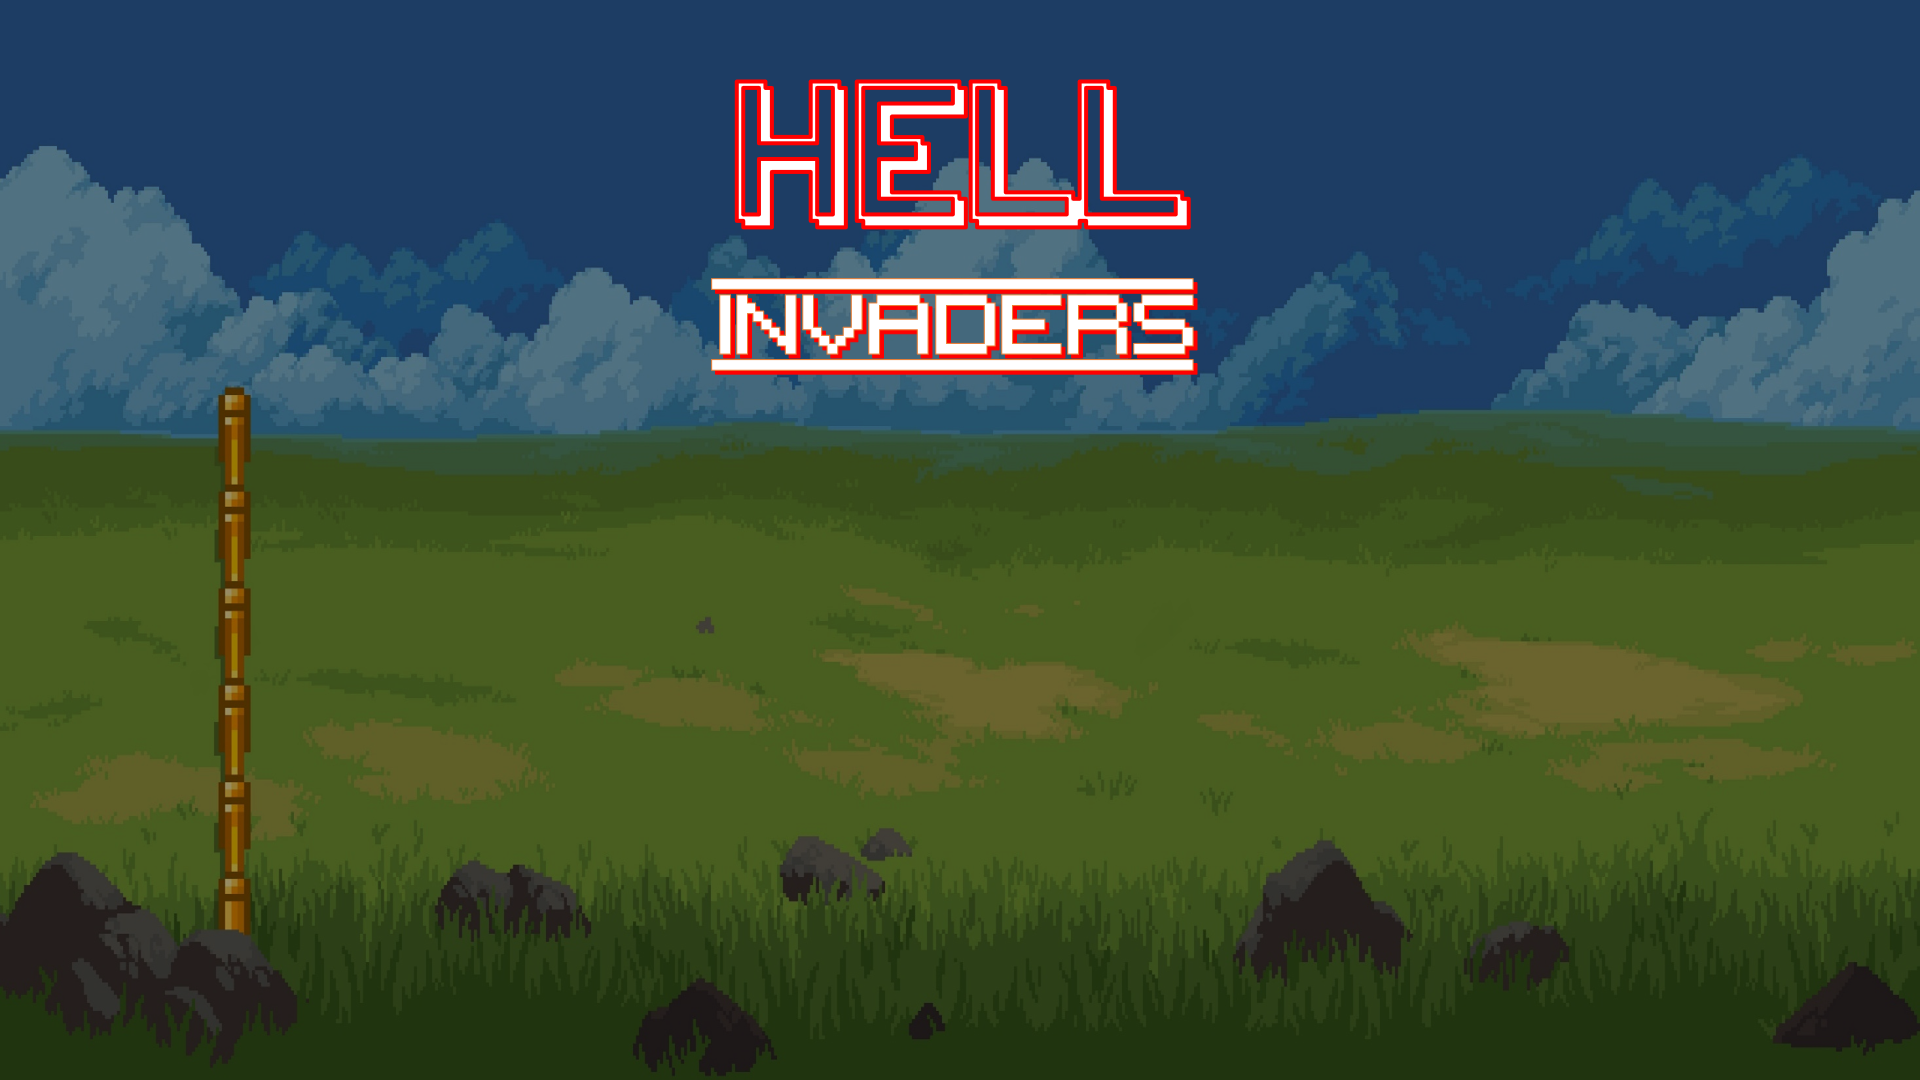
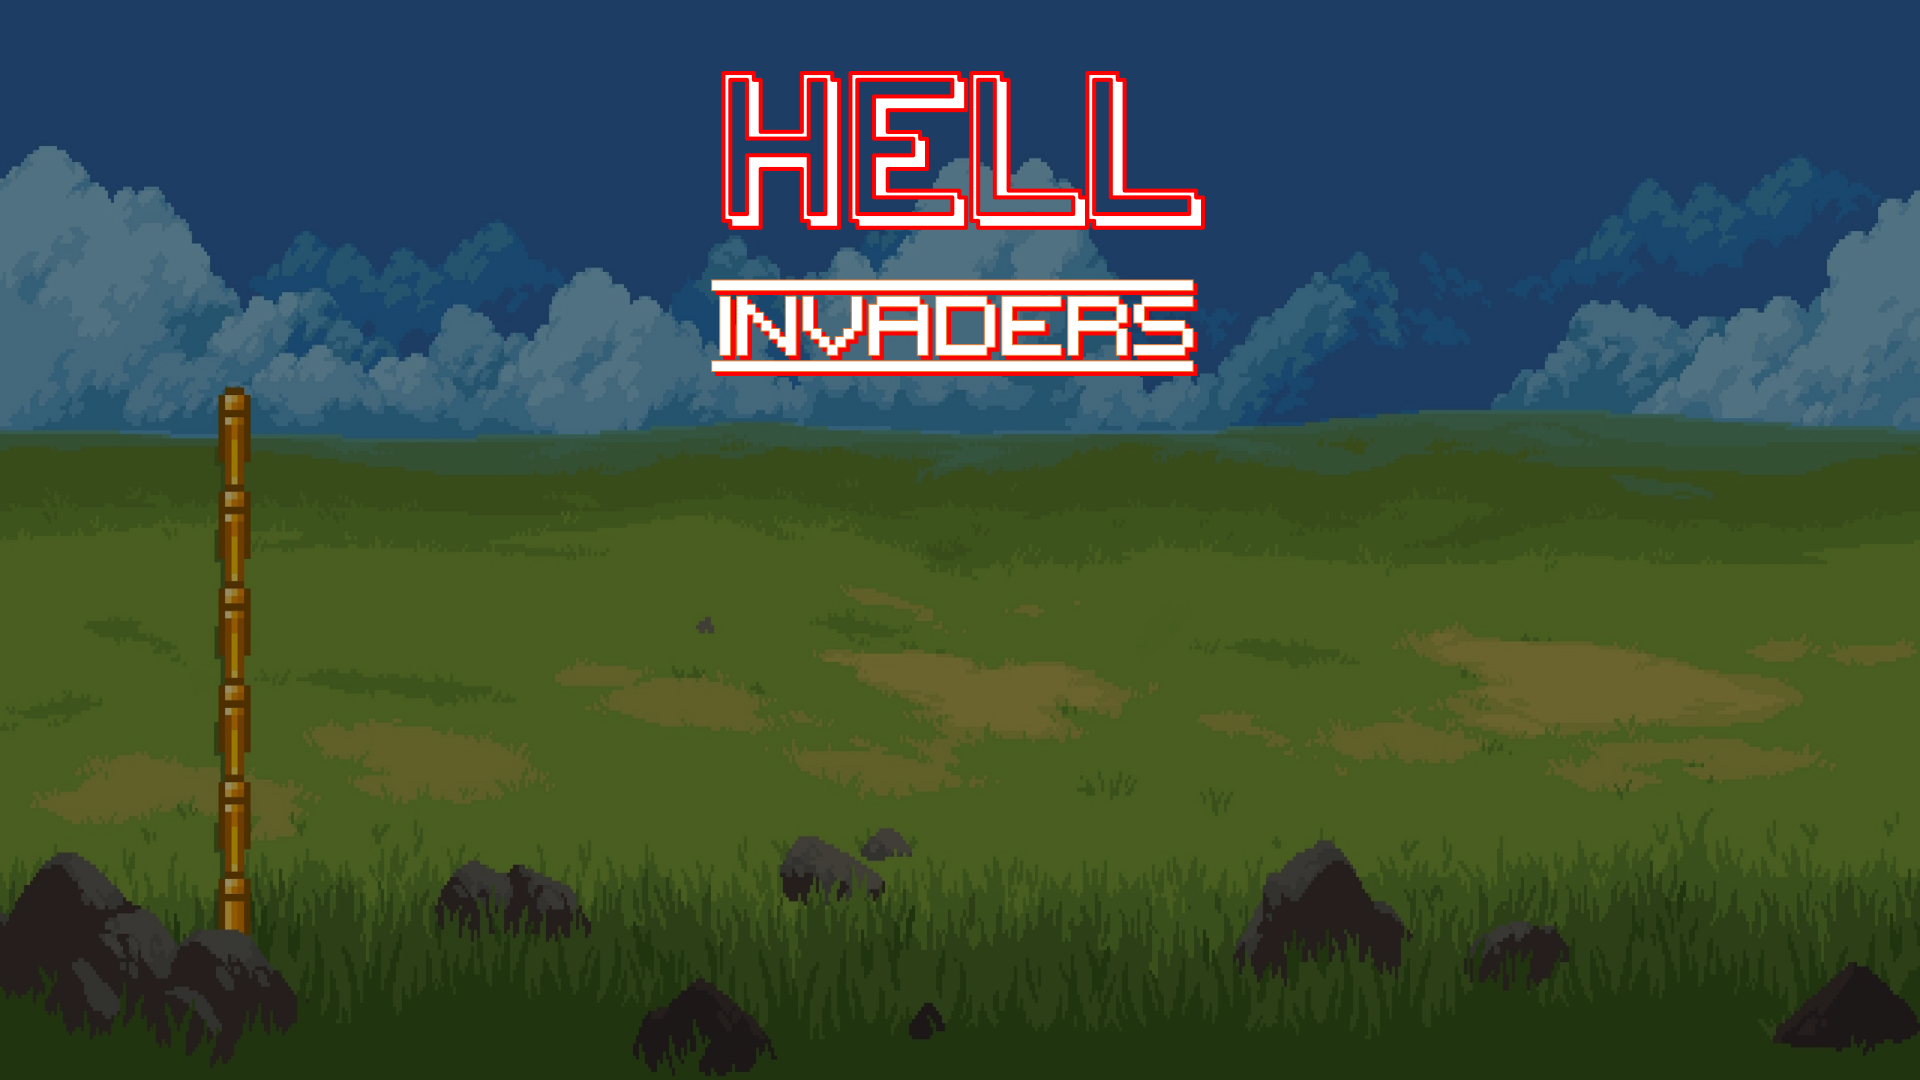
Changed menu background and button sizes.

Changed region(s): [[0.375, 0.0611, 0.625, 0.2139], [0.375, 0.2444, 0.625, 0.3667]]

diff --git a/out/production/Hell Invaders/res/src/States/UpgradeState.java b/out/production/Hell Invaders/res/src/States/UpgradeState.java
@@ -11,13 +11,15 @@ import java.awt.*;
 import java.awt.event.KeyEvent;
 import java.awt.image.BufferStrategy;
 
-public class UpgradeState extends ReversableState {
+public class UpgradeState extends ReversibleState {
+    private final int playW=400;
+    private  final int playH=110;
+    private final int playX = Toolkit.getDefaultToolkit().getScreenSize().width / 2 - playW/2;
 
     public UpgradeState() {
-        int playX = Toolkit.getDefaultToolkit().getScreenSize().width / 2 - buttonW;
         allButtons.get(0).AddActionListener(actionEvent -> StateManager.GetInstance().SetCurrentState(StateManager.StateIndex.MENU_STATE));
         allButtons.get(0).AddActionListener(actionEvent -> AudioManager.GetInstance().Stop(BackgroundMusic.upgradeMusic));
-        allButtons.add(new GUIButton(GUIAssets.play_button, GUIAssets.play_button_hovered, playX, 735, buttonW * 2, buttonH * 2));
+        allButtons.add(new GUIButton(GUIAssets.play_button, GUIAssets.play_button_hovered, playX, 725, playW, playH ));
         allButtons.get(1).AddActionListener(actionEvent -> StateManager.GetInstance().SetCurrentState(StateManager.StateIndex.GAME_STATE));
         allButtons.get(1).AddActionListener(actionEvent -> AudioManager.GetInstance().Stop(BackgroundMusic.upgradeMusic));
     }

diff --git a/src/States/UpgradeState.java b/src/States/UpgradeState.java
@@ -11,13 +11,15 @@ import java.awt.*;
 import java.awt.event.KeyEvent;
 import java.awt.image.BufferStrategy;
 
-public class UpgradeState extends ReversableState {
+public class UpgradeState extends ReversibleState {
+    private final int playW=400;
+    private  final int playH=110;
+    private final int playX = Toolkit.getDefaultToolkit().getScreenSize().width / 2 - playW/2;
 
     public UpgradeState() {
-        int playX = Toolkit.getDefaultToolkit().getScreenSize().width / 2 - buttonW;
         allButtons.get(0).AddActionListener(actionEvent -> StateManager.GetInstance().SetCurrentState(StateManager.StateIndex.MENU_STATE));
         allButtons.get(0).AddActionListener(actionEvent -> AudioManager.GetInstance().Stop(BackgroundMusic.upgradeMusic));
-        allButtons.add(new GUIButton(GUIAssets.play_button, GUIAssets.play_button_hovered, playX, 735, buttonW * 2, buttonH * 2));
+        allButtons.add(new GUIButton(GUIAssets.play_button, GUIAssets.play_button_hovered, playX, 725, playW, playH ));
         allButtons.get(1).AddActionListener(actionEvent -> StateManager.GetInstance().SetCurrentState(StateManager.StateIndex.GAME_STATE));
         allButtons.get(1).AddActionListener(actionEvent -> AudioManager.GetInstance().Stop(BackgroundMusic.upgradeMusic));
     }

diff --git a/out/production/Hell Invaders/res/src/States/MenuState.java b/out/production/Hell Invaders/res/src/States/MenuState.java
@@ -17,9 +17,9 @@ public class MenuState extends State {
     private GUIText bottomText;
 
     public MenuState() {
-        final int menuY = Toolkit.getDefaultToolkit().getScreenSize().height / 2;
+        final int menuY = Toolkit.getDefaultToolkit().getScreenSize().height / 2-20;
         final int menuX = (Toolkit.getDefaultToolkit().getScreenSize().width - buttonW) / 2;
-        final int buttonSpacing = 65;
+        final int buttonSpacing = 75;
 
         allButtons = new ArrayList<>(5);
         allButtons.add(new GUIButton(GUIAssets.new_game_button, GUIAssets.new_game_button_hovered, menuX, menuY, buttonW, buttonH));

diff --git a/src/States/MenuState.java b/src/States/MenuState.java
@@ -17,9 +17,9 @@ public class MenuState extends State {
     private GUIText bottomText;
 
     public MenuState() {
-        final int menuY = Toolkit.getDefaultToolkit().getScreenSize().height / 2;
+        final int menuY = Toolkit.getDefaultToolkit().getScreenSize().height / 2-20;
         final int menuX = (Toolkit.getDefaultToolkit().getScreenSize().width - buttonW) / 2;
-        final int buttonSpacing = 65;
+        final int buttonSpacing = 75;
 
         allButtons = new ArrayList<>(5);
         allButtons.add(new GUIButton(GUIAssets.new_game_button, GUIAssets.new_game_button_hovered, menuX, menuY, buttonW, buttonH));

diff --git a/out/production/Hell Invaders/res/src/States/OptionsState.java b/out/production/Hell Invaders/res/src/States/OptionsState.java
@@ -1,8 +1,5 @@
 package States;
 
-import Assets.GUIAssets;
-import Audio.AudioManager;
-import Audio.BackgroundMusic;
 import GUI.GUIButton;
 import Game.GameWindow;
 import Assets.BackgroundAssets;
@@ -10,7 +7,7 @@ import Assets.BackgroundAssets;
 import java.awt.*;
 import java.awt.image.BufferStrategy;
 
-public class OptionsState extends ReversableState {
+public class OptionsState extends ReversibleState {
 
     public OptionsState(){
         allButtons.get(0).AddActionListener(actionEvent -> StateManager.GetInstance().SetCurrentState(StateManager.StateIndex.MENU_STATE));

diff --git a/src/States/OptionsState.java b/src/States/OptionsState.java
@@ -1,8 +1,5 @@
 package States;
 
-import Assets.GUIAssets;
-import Audio.AudioManager;
-import Audio.BackgroundMusic;
 import GUI.GUIButton;
 import Game.GameWindow;
 import Assets.BackgroundAssets;
@@ -10,7 +7,7 @@ import Assets.BackgroundAssets;
 import java.awt.*;
 import java.awt.image.BufferStrategy;
 
-public class OptionsState extends ReversableState {
+public class OptionsState extends ReversibleState {
 
     public OptionsState(){
         allButtons.get(0).AddActionListener(actionEvent -> StateManager.GetInstance().SetCurrentState(StateManager.StateIndex.MENU_STATE));

diff --git a/out/production/Hell Invaders/res/src/States/StatsState.java b/out/production/Hell Invaders/res/src/States/StatsState.java
@@ -1,8 +1,5 @@
 package States;
 
-import Assets.GUIAssets;
-import Audio.AudioManager;
-import Audio.BackgroundMusic;
 import GUI.GUIButton;
 import Game.GameWindow;
 import Assets.BackgroundAssets;
@@ -11,7 +8,7 @@ import java.awt.*;
 import java.awt.event.KeyEvent;
 import java.awt.image.BufferStrategy;
 
-public class StatsState extends ReversableState {
+public class StatsState extends ReversibleState {
     public StatsState(){
         allButtons.get(0).AddActionListener(actionEvent -> StateManager.GetInstance().SetCurrentState(StateManager.StateIndex.MENU_STATE));
     }

diff --git a/src/States/StatsState.java b/src/States/StatsState.java
@@ -1,8 +1,5 @@
 package States;
 
-import Assets.GUIAssets;
-import Audio.AudioManager;
-import Audio.BackgroundMusic;
 import GUI.GUIButton;
 import Game.GameWindow;
 import Assets.BackgroundAssets;
@@ -11,7 +8,7 @@ import java.awt.*;
 import java.awt.event.KeyEvent;
 import java.awt.image.BufferStrategy;
 
-public class StatsState extends ReversableState {
+public class StatsState extends ReversibleState {
     public StatsState(){
         allButtons.get(0).AddActionListener(actionEvent -> StateManager.GetInstance().SetCurrentState(StateManager.StateIndex.MENU_STATE));
     }

diff --git a/out/production/Hell Invaders/res/src/States/GameState.java b/out/production/Hell Invaders/res/src/States/GameState.java
@@ -1,7 +1,6 @@
 package States;
 
 import Assets.PlayerAssets;
-import Assets.ProjectileAssets;
 import Audio.AudioManager;
 import Audio.BackgroundMusic;
 import GUI.GUIButton;
@@ -12,7 +11,7 @@ import java.awt.*;
 import java.awt.event.KeyEvent;
 import java.awt.image.BufferStrategy;
 
-public class GameState extends ReversableState {
+public class GameState extends ReversibleState {
 
     public GameState() {
         allButtons.get(0).AddActionListener(actionEvent -> StateManager.GetInstance().SetCurrentState(StateManager.StateIndex.UPGRADE_STATE));

diff --git a/src/States/GameState.java b/src/States/GameState.java
@@ -1,7 +1,6 @@
 package States;
 
 import Assets.PlayerAssets;
-import Assets.ProjectileAssets;
 import Audio.AudioManager;
 import Audio.BackgroundMusic;
 import GUI.GUIButton;
@@ -12,7 +11,7 @@ import java.awt.*;
 import java.awt.event.KeyEvent;
 import java.awt.image.BufferStrategy;
 
-public class GameState extends ReversableState {
+public class GameState extends ReversibleState {
 
     public GameState() {
         allButtons.get(0).AddActionListener(actionEvent -> StateManager.GetInstance().SetCurrentState(StateManager.StateIndex.UPGRADE_STATE));

diff --git a/src/States/ReversibleState.java b/src/States/ReversibleState.java
@@ -5,10 +5,10 @@ import GUI.GUIButton;
 
 import java.util.ArrayList;
 
-public abstract class ReversableState extends State {
+public abstract class ReversibleState extends State {
     protected static final int backButtonX = 25;
     protected static final int backButtonY = 25;
-    public ReversableState(){
+    public ReversibleState(){
         allButtons= new ArrayList<>(1);
         allButtons.add(new GUIButton(GUIAssets.back_button,GUIAssets.back_button_hovered,backButtonX,backButtonY,buttonW,buttonH));
     }

diff --git a/src/Assets/PlayerAssets.java b/src/Assets/PlayerAssets.java
@@ -5,9 +5,9 @@ import java.util.Objects;
 
 public class PlayerAssets {
     public static Image[] player_frames;
-    public static final int playerH=160;
-    public static final int playerW=130;
-    public static final int playerX=25;
+    public static final int playerH=140;
+    public static final int playerW=120;
+    public static final int playerX=35;
     public static final int playerY=420;
 
     public static void Init(){
